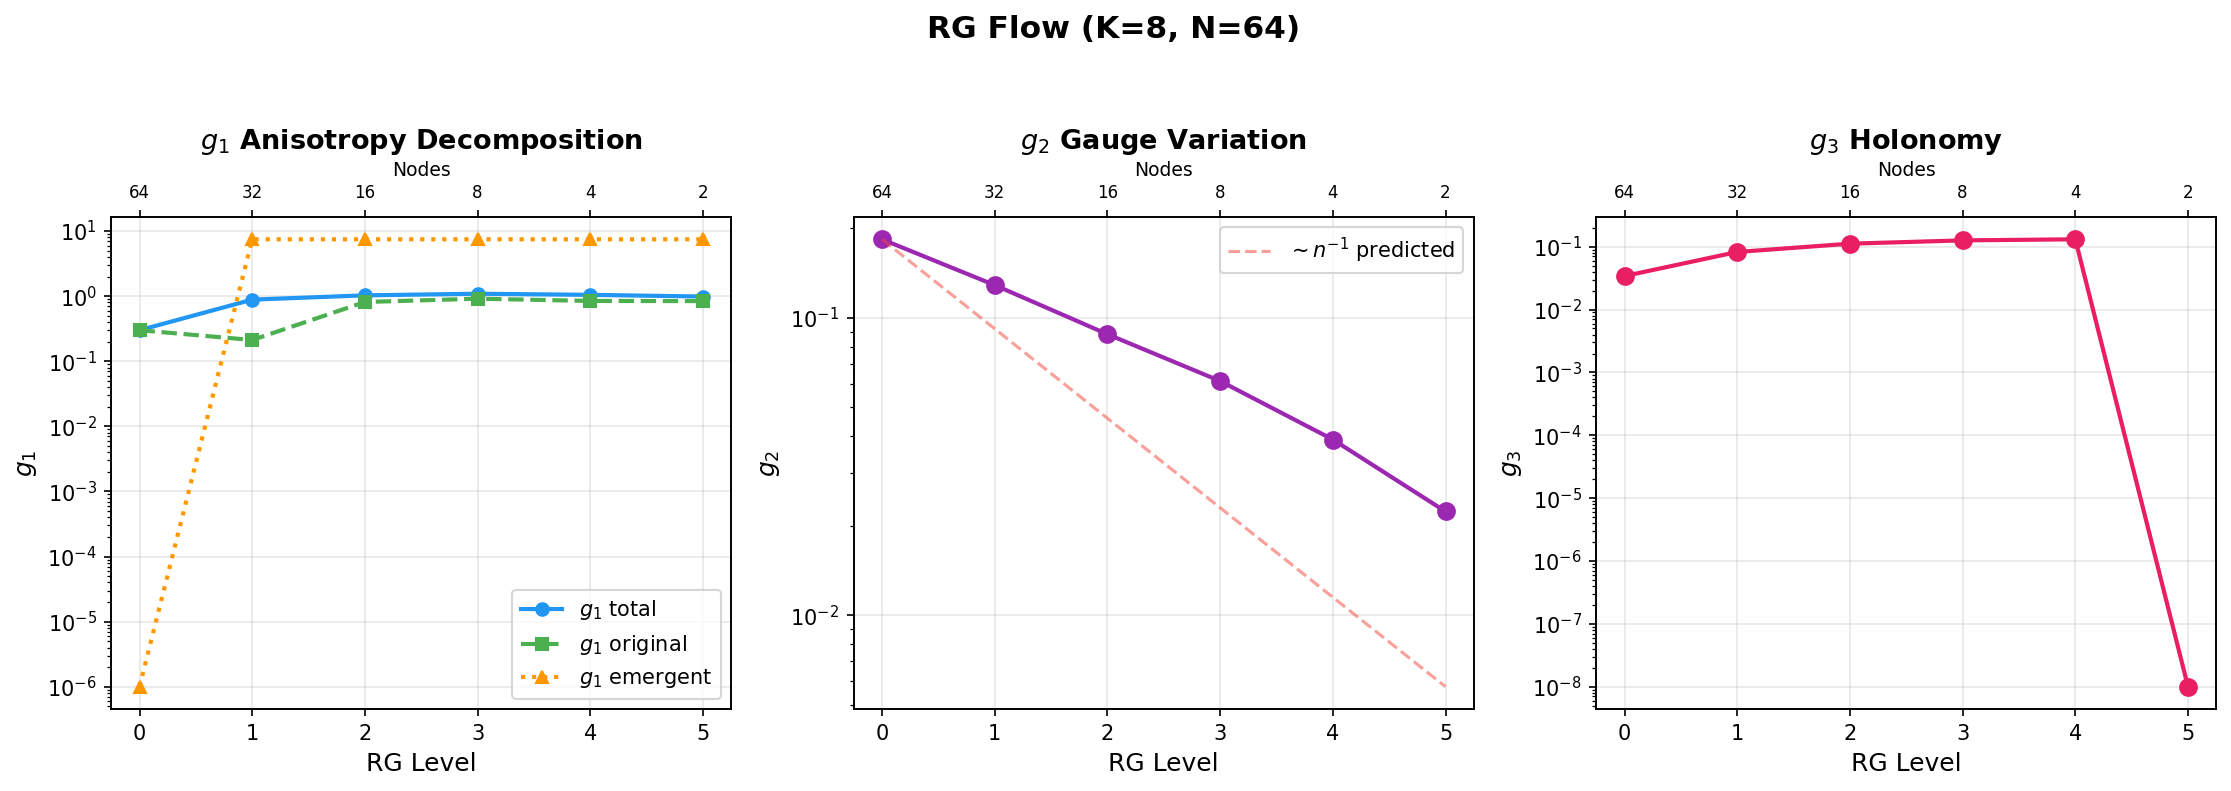
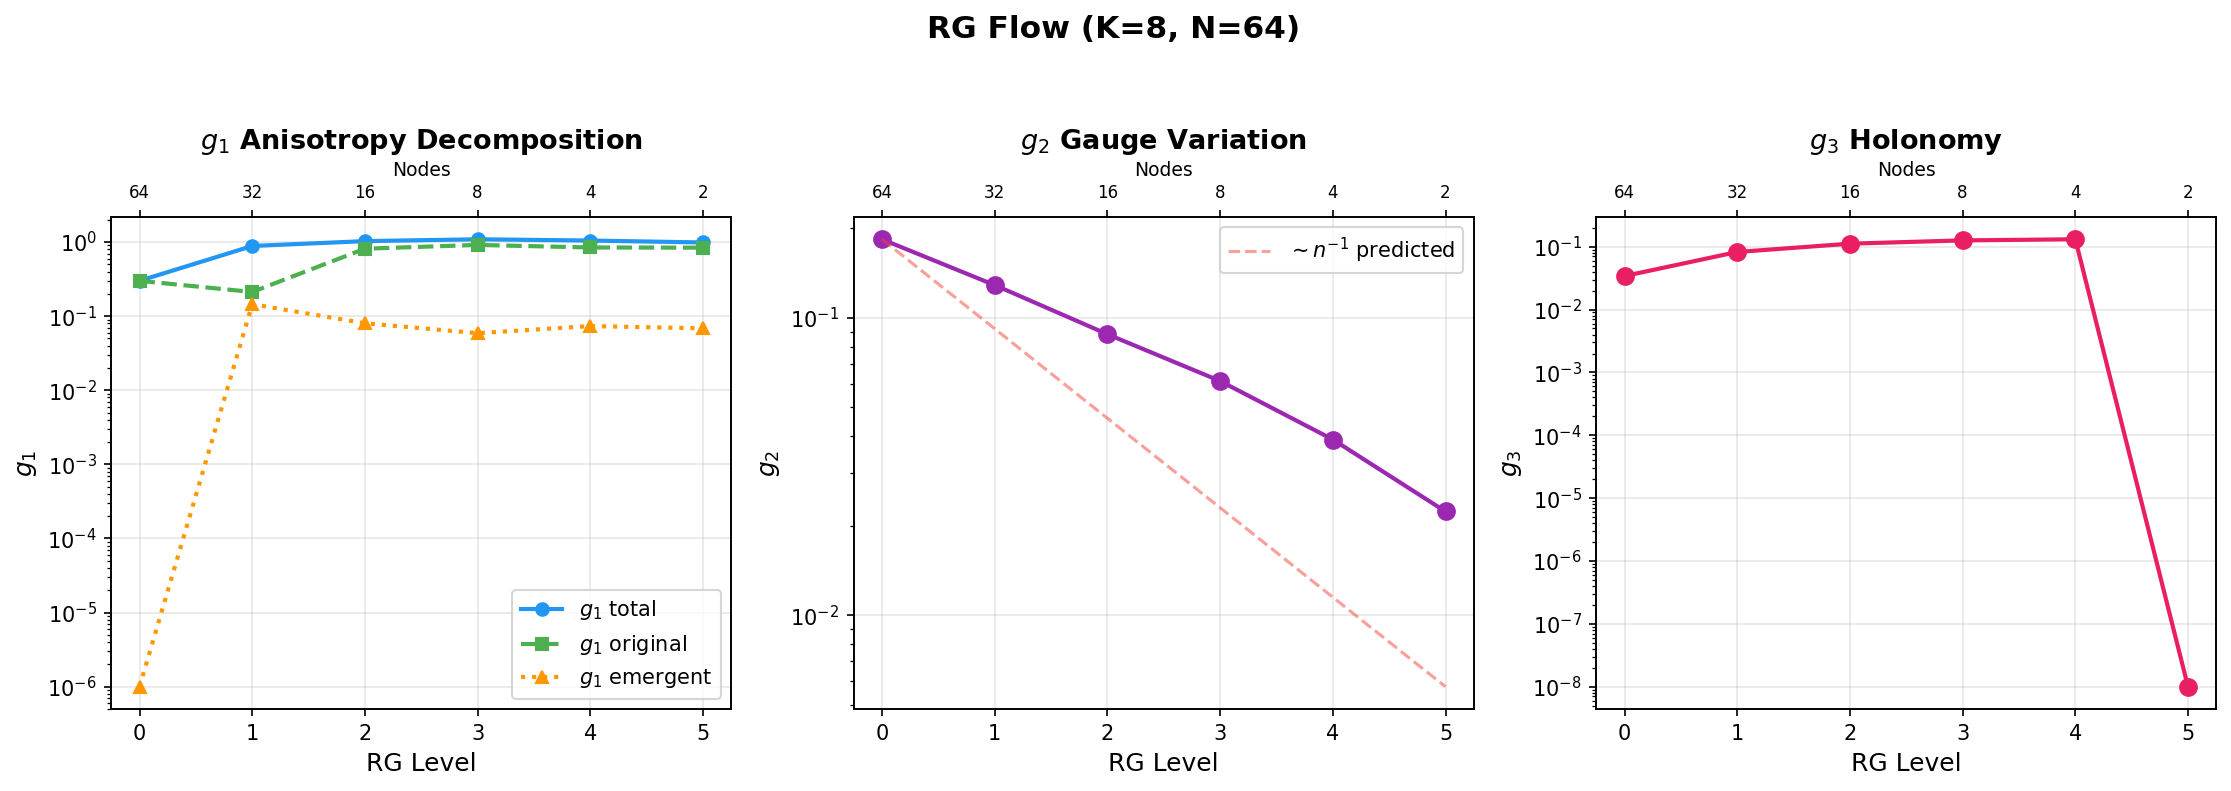
Fix g1_emergent metric: use variance ratio instead of shape anisotropy
The old _anisotropy() metric measured ||Σ - (tr/K)I|| / (tr/K), which
for a rank-1 matrix Var_A(μ) from binary clusters always returns K-1
(= 89.5 at K=90) regardless of the variance magnitude. This is a
geometric constant, not a physical coupling.

Replace with tr(Var_A(μ)) / tr(avg_Σ) — the ratio of emergent to
original variance. This is the physically meaningful quantity: how much
variance does mean-mixing add? Now g1_emergent starts at 0.14 and
evolves meaningfully across RG levels instead of being frozen at 89.5.

https://claude.ai/code/session_01Psxrcuq4obPT73xk9Lm72t

diff --git a/scripts/rg_universality_networkx.py b/scripts/rg_universality_networkx.py
@@ -402,7 +402,17 @@ def measure_couplings(
 
     g1 = _anisotropy(covariances)
     g1_orig = _anisotropy(covs_original) if covs_original is not None else g1
-    g1_emerg = _anisotropy(covs_emergent) if covs_emergent is not None else 0.0
+
+    # g₁ emergent: measure the MAGNITUDE of emergent variance relative to
+    # the original, not its shape anisotropy. A rank-1 Var_A(μ) from binary
+    # clusters is always maximally anisotropic (K-1 under _anisotropy),
+    # regardless of its magnitude. The physically meaningful quantity is
+    # how much variance the emergent channel adds: tr(Var_A(μ)) / tr(avg_Σ).
+    g1_emerg = 0.0
+    if covs_emergent is not None and covs_original is not None:
+        emerg_traces = np.array([np.trace(covs_emergent[i]) for i in range(M)])
+        orig_traces = np.array([np.trace(covs_original[i]) for i in range(M)])
+        g1_emerg = np.mean(emerg_traces / (orig_traces + 1e-10))
 
     # g₂: gauge variation = std of transports
     g2 = 0.0